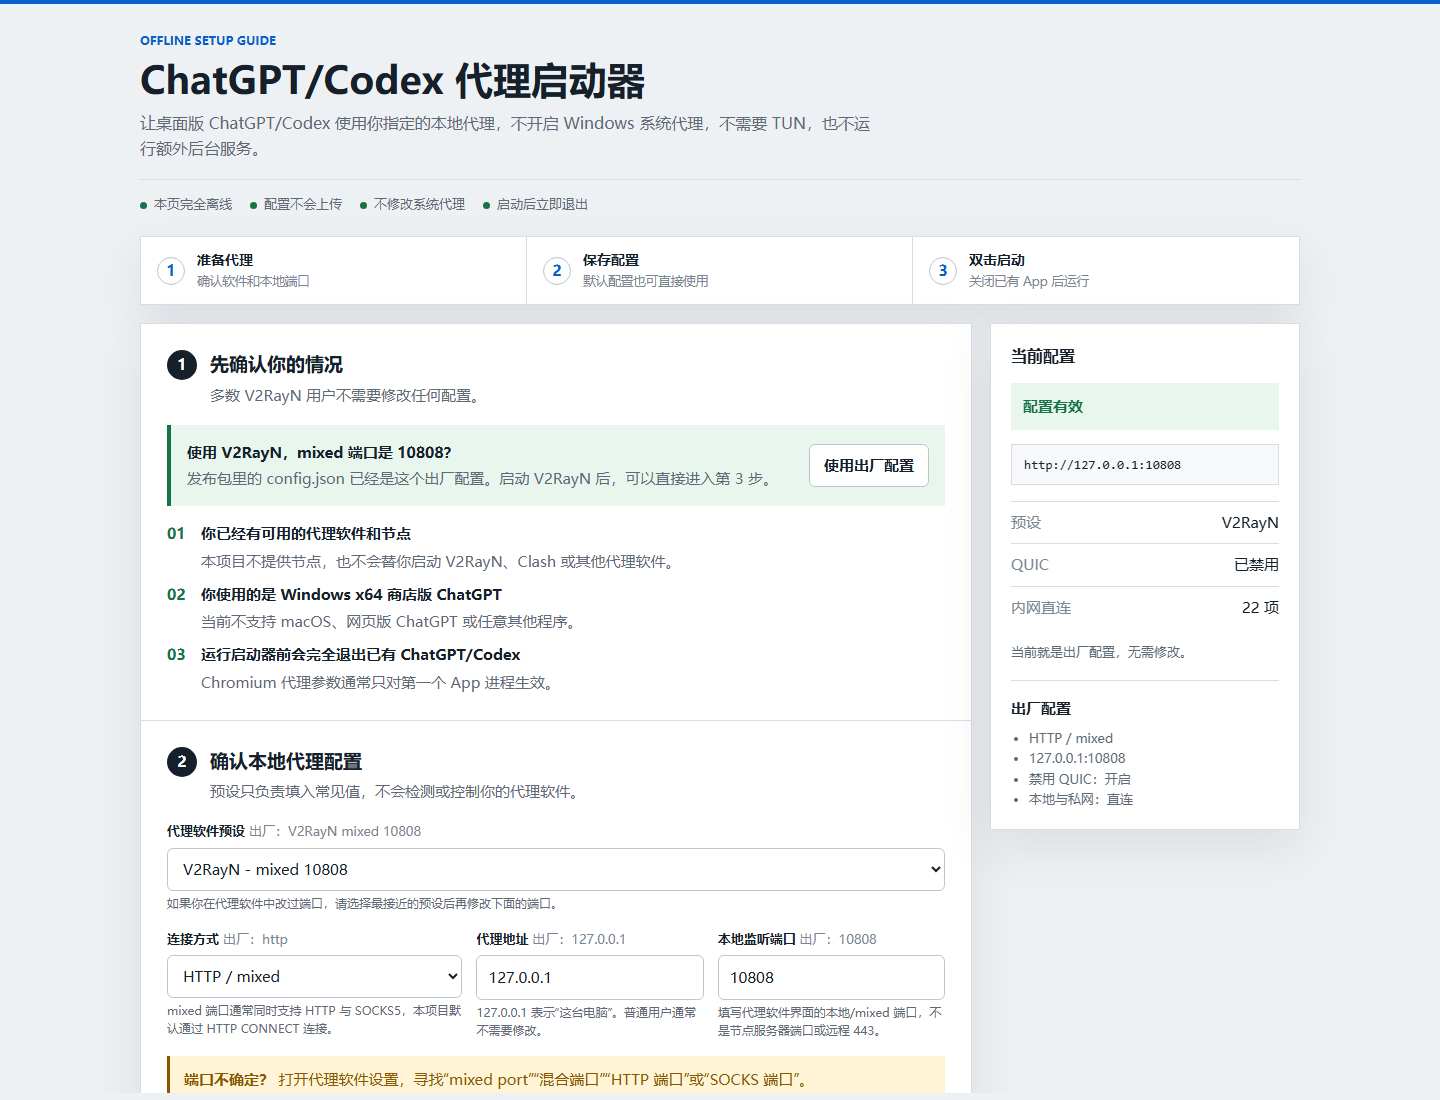
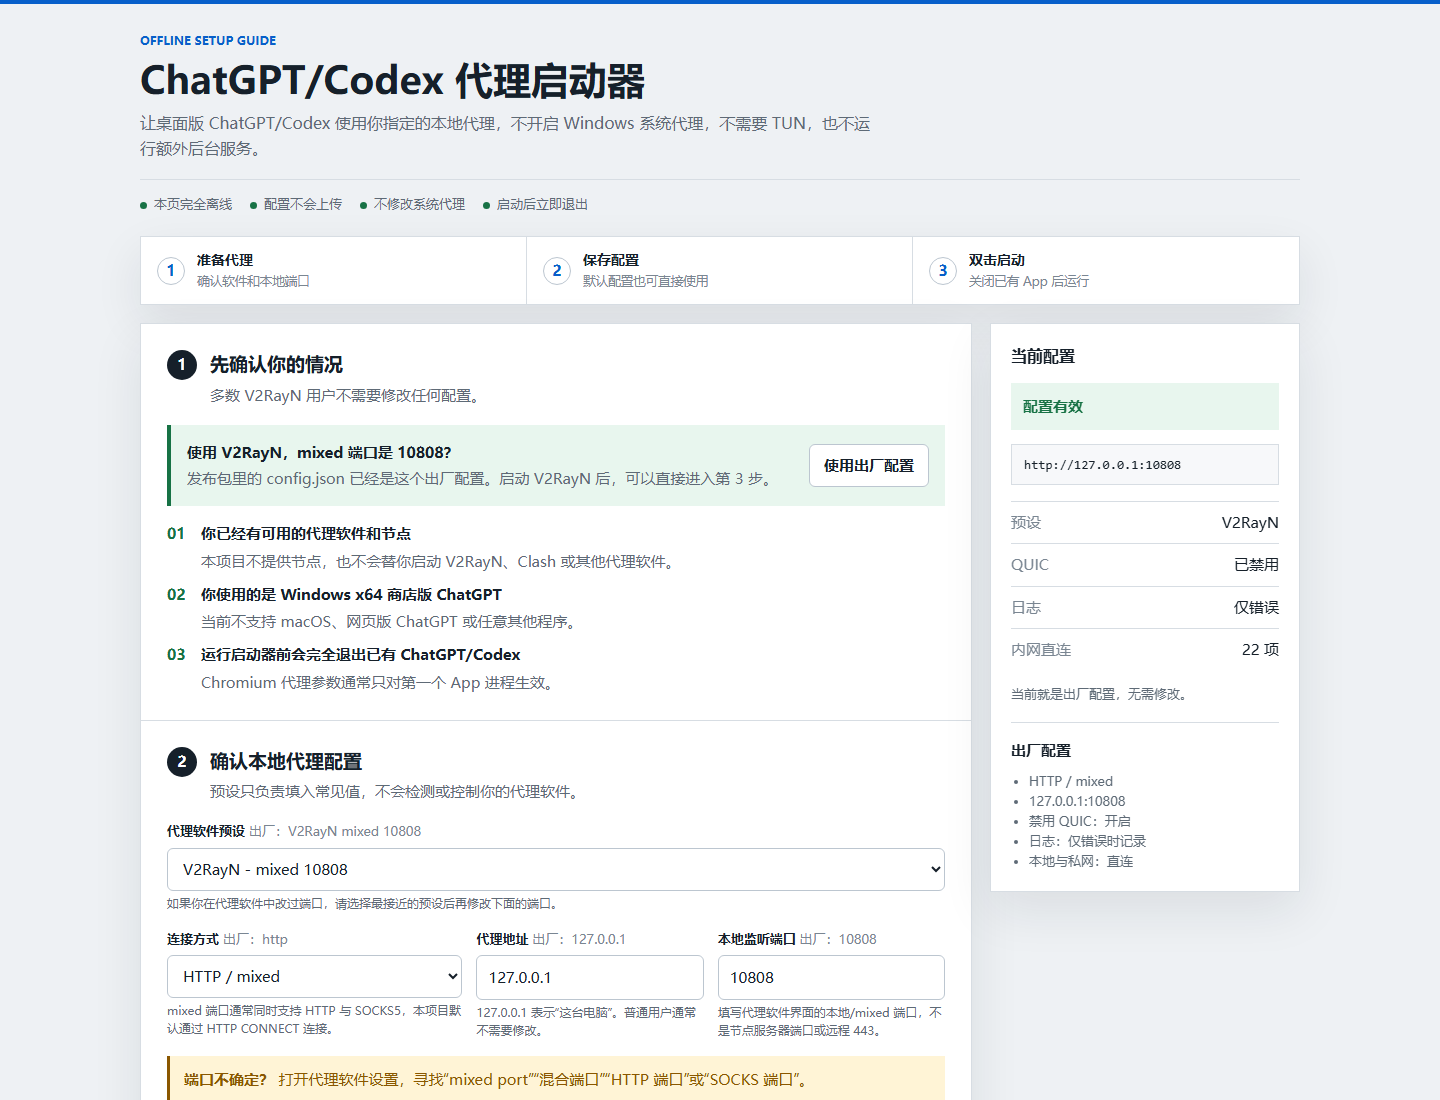
Polish repository release maintenance

diff --git a/CHANGELOG.md b/CHANGELOG.md
@@ -1,0 +1,38 @@
+# Changelog
+
+本项目的用户可见变更记录在此文件中。版本遵循语义化版本号。
+
+## [1.1.1] - 2026-07-11
+
+### Changed
+
+- 修正 README 对发布包文件和运行时 `logs/` 目录的描述。
+- 更新 START-HERE 配置向导截图。
+- Release 文案改为按版本标签独立存放，避免后续发布误用旧版本说明。
+- 标签发布缺少对应说明文件时，GitHub Actions 会明确失败。
+
+## [1.1.0] - 2026-07-11
+
+### Added
+
+- 新增 `errors`、`always`、`off` 三档诊断日志模式。
+- START-HERE 高级设置可直接选择日志模式并保存到 `config.json`。
+- Codex 旧版图标以多尺寸 Windows ICO 嵌入启动器。
+
+### Changed
+
+- 默认日志模式为 `errors`：正常启动不创建日志目录，失败时回放本次启动上下文。
+- 旧配置缺少 `log_mode` 时自动采用默认值，无需手动迁移。
+- 同步完善错误提示、隐私说明、README、离线向导与测试。
+
+## [1.0.0] - 2026-07-11
+
+### Added
+
+- 首个稳定版本。
+- 便携式 Windows x64 启动器，通过 Chromium 启动参数为 Microsoft Store 版 ChatGPT/Codex 设置单应用代理。
+- 单文件离线配置向导、常用代理预设、环境检查、错误提示和自动化发布流程。
+
+[1.1.1]: https://github.com/leisair/codex-app-proxy/compare/v1.1.0...v1.1.1
+[1.1.0]: https://github.com/leisair/codex-app-proxy/compare/v1.0.0...v1.1.0
+[1.0.0]: https://github.com/leisair/codex-app-proxy/releases/tag/v1.0.0

diff --git a/.github/releases/v1.1.1.md b/.github/releases/v1.1.1.md
@@ -1,0 +1,23 @@
+## 下载与使用
+
+请下载本 Release 下方的 `windows-x64.zip` 文件，不要下载 GitHub 自动生成的 Source code 压缩包。
+
+1. 解压 ZIP，只需一次。
+2. 打开 `START-HERE.html`，按向导确认代理配置。
+3. 启动代理软件，完全退出已有 ChatGPT/Codex，然后双击 `CodexProxyLauncher.exe`。
+
+V2RayN 默认 mixed 端口 `10808` 的用户无需修改 `config.json`。不需要开启 Windows 系统代理或 TUN。
+
+## v1.1.1 更新内容
+
+- 修正 README 对发布包文件与运行时日志目录的描述。
+- 更新仓库首页的 START-HERE 配置向导截图。
+- 新增版本变更记录，并改进 Release 文案的版本隔离与发布校验。
+
+启动器代理、日志与配置行为和 v1.1.0 保持一致。
+
+## 文件校验
+
+同一 Release 提供 `.sha256` 文件。当前 EXE 尚未代码签名，请只从本仓库 Release 下载，或审查源码后自行构建。
+
+完整说明与故障排查请查看压缩包内的 `START-HERE.html`。

diff --git a/README.md b/README.md
@@ -8,7 +8,7 @@
 
 *A portable Windows launcher that starts the Microsoft Store ChatGPT/Codex app with a per-app proxy.*
 
-> [下载最新版](https://github.com/leisair/codex-app-proxy/releases/latest) · 下载 `windows-x64.zip`，解压后打开 `START-HERE.html`
+> [下载最新版](https://github.com/leisair/codex-app-proxy/releases/latest) · [版本记录](CHANGELOG.md) · 下载 `windows-x64.zip`，解压后打开 `START-HERE.html`
 
 ![START-HERE 离线配置向导](https://raw.githubusercontent.com/leisair/codex-app-proxy/main/docs/images/start-here.png)
 
@@ -78,9 +78,8 @@ ZIP 根目录直接包含以下文件，没有第二层 ZIP：
 | `CodexProxyLauncher.exe` | 检查环境并启动 ChatGPT/Codex | 每次通过代理启动时双击 |
 | `config.json` | 启动器实际读取的配置 | 通常通过向导生成，不必手改 |
 | `README.md` | 本页面的离线副本 | 按需查看 |
-| `logs/` | 默认仅在启动出错时生成的诊断日志目录 | 仅排错时查看 |
 
-配置和日志都保存在这个便携文件夹内；项目不会创建 `%USERPROFILE%\.codex-proxy`。
+运行后可能在同目录生成 `logs/`：默认仅在启动出错时创建，具体由 `log_mode` 控制。配置和日志都保存在这个便携文件夹内；项目不会创建 `%USERPROFILE%\.codex-proxy`。
 
 ## 配置项说明
 